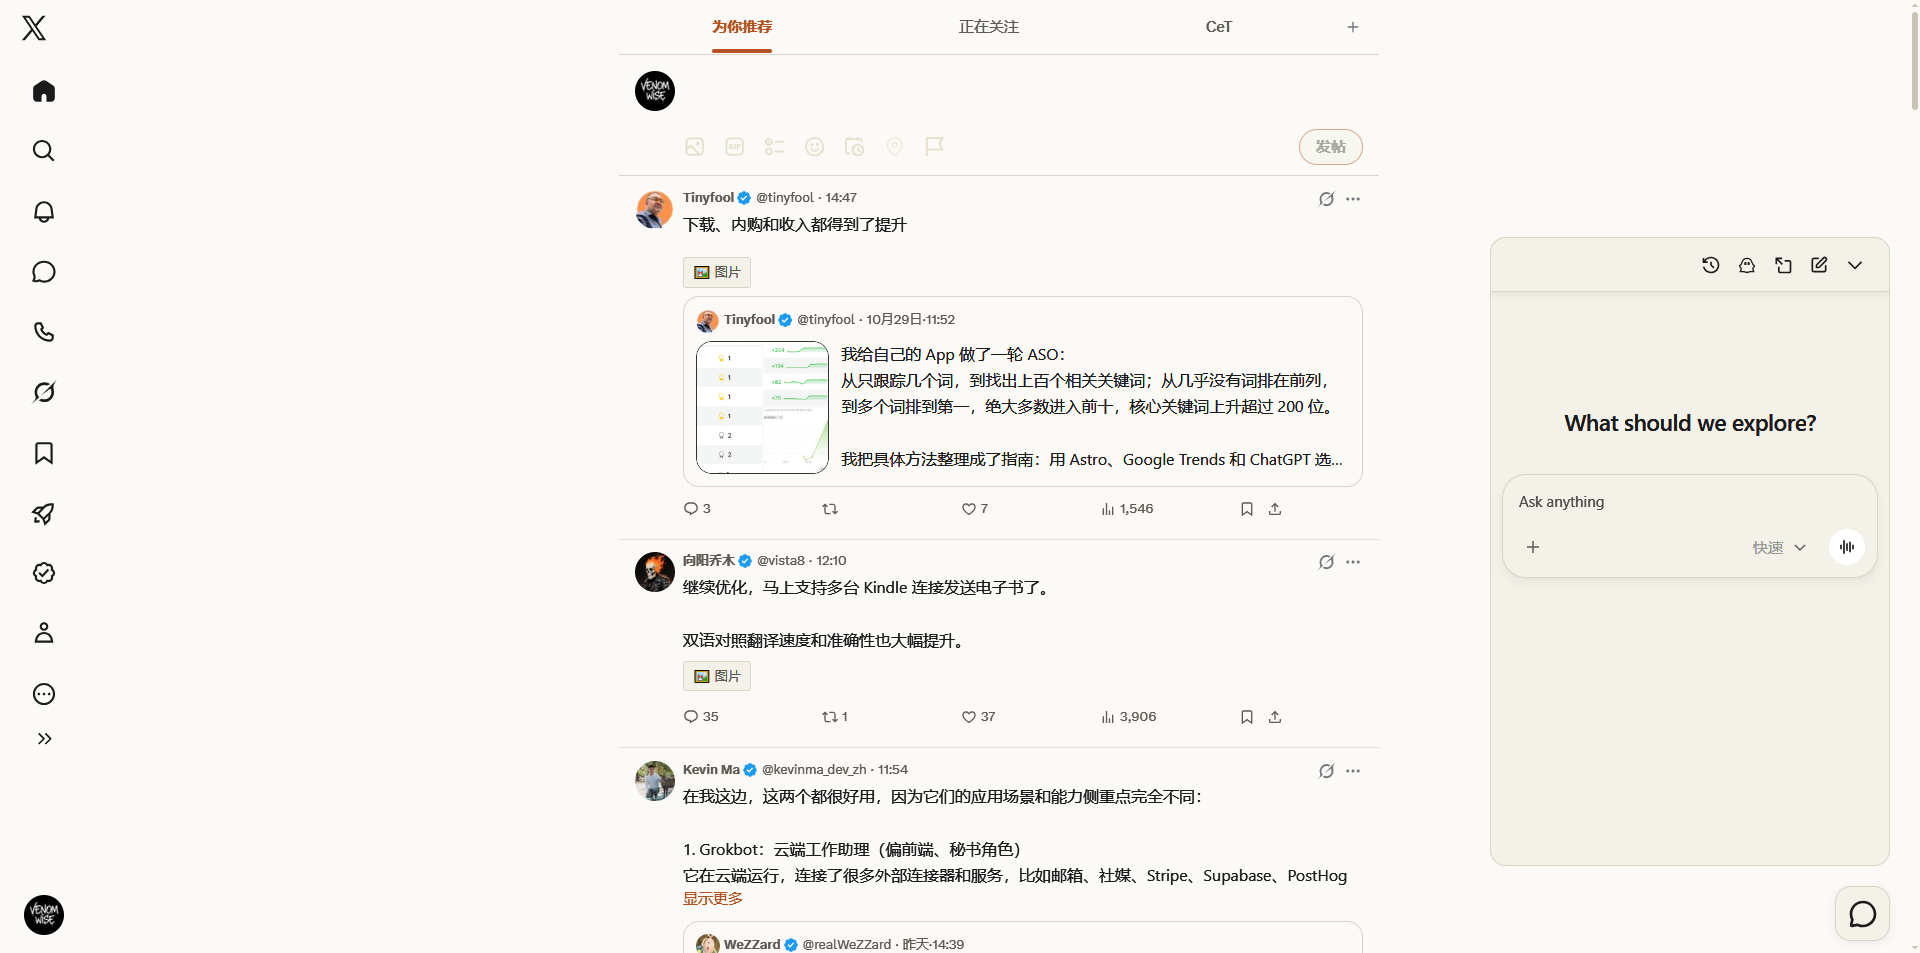
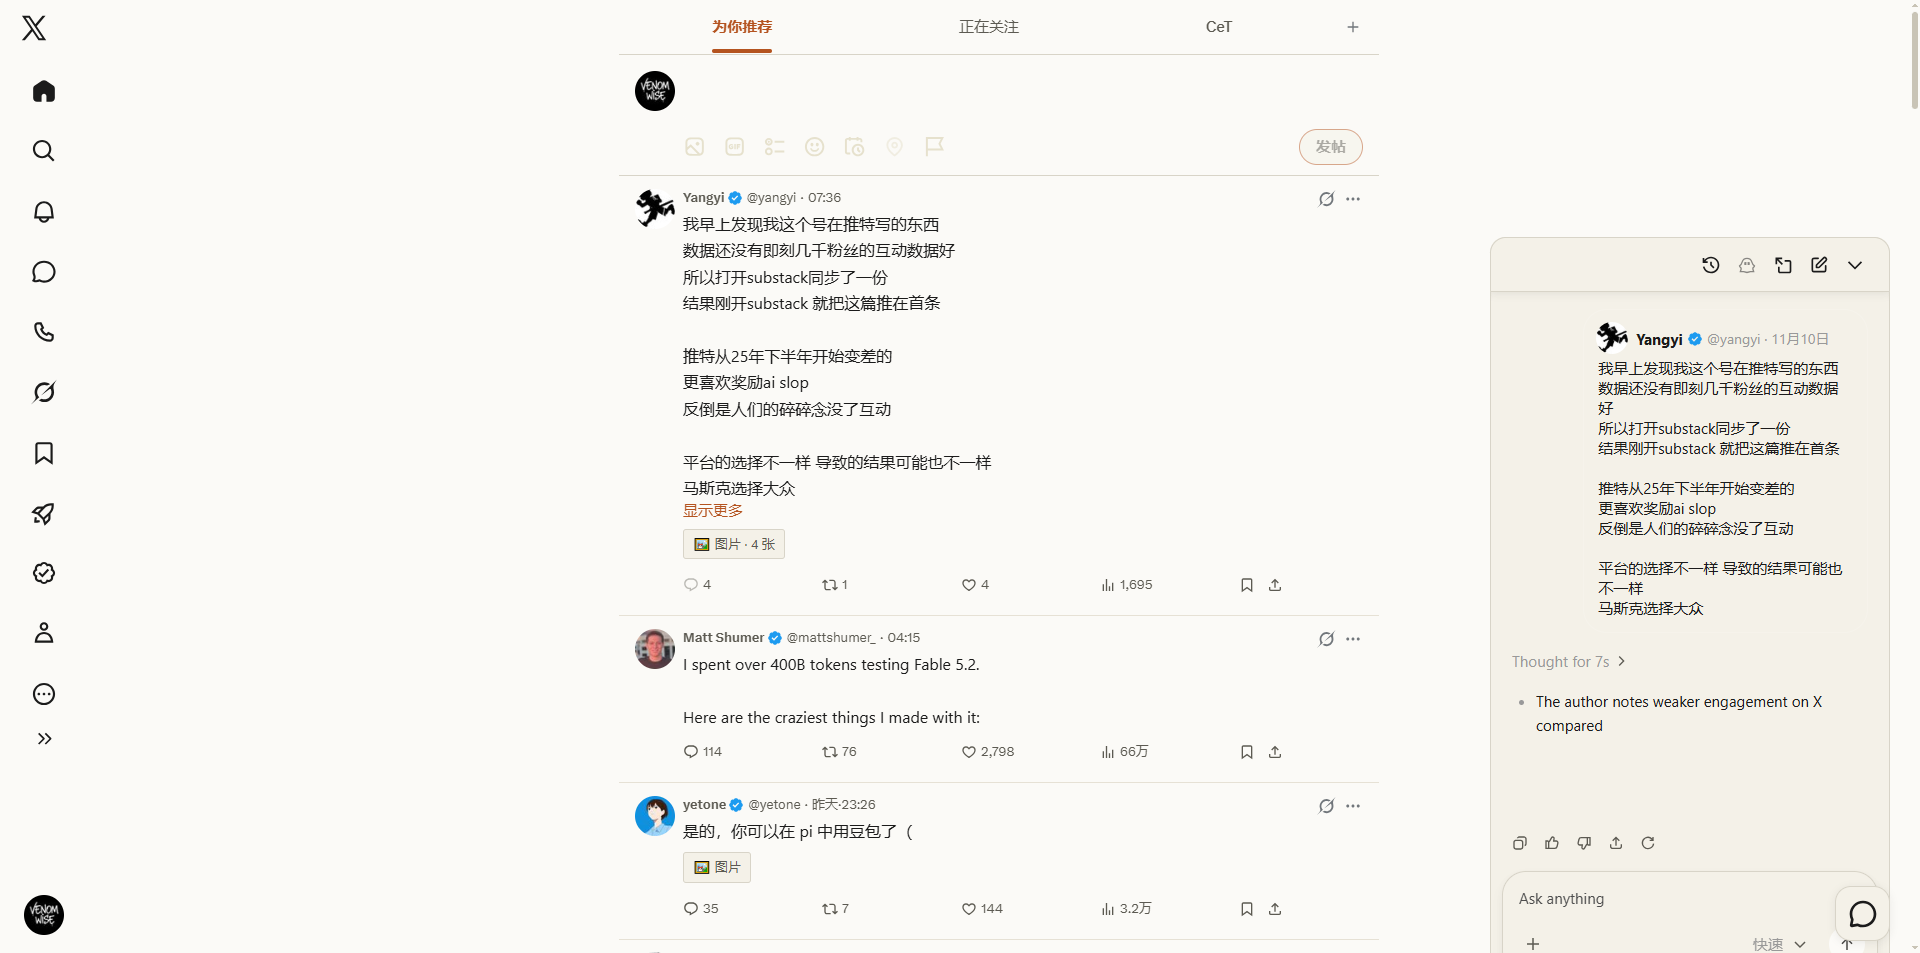
fix: paper-theme the Grok post-summary panel
Opening the drawer from a post's Grok icon left the panel dark: X replaces the
GrokDrawer root and two wrappers, and the old click gate only matched the
English aria-label. Observe the stable #layers drawer layer instead, keep the
connected layer across the drawer's transient absence so a scan no longer
disconnects its own observer, and flip the bare-div quoted author name to ink.

diff --git a/x-morning-paper.user.js b/x-morning-paper.user.js
@@ -2,7 +2,7 @@
 // @name         x-paper
 // @name:zh-CN   x-paper（X 纸面版）
 // @namespace    x-paper
-// @version      0.8.0
+// @version      0.8.1
 // @description  A quiet paper layout for X: icon rail, wide reading column, emoji media controls
 // @description:zh-CN  把 X 改成安静纸面版面：图标轨、宽阅读列、媒体折叠与悬停原图预览
 // @author       venom
@@ -2187,7 +2187,6 @@
   let grokObserver = null;
   let grokTimer = null;
   let grokRoot = null;
-  let grokClickBound = false;
   let commentsModal = null;
   let commentsAbort = null;
   let commentsReturnFocus = null;
@@ -2786,8 +2785,8 @@
 
   // 只处理带直接文字的元素：品牌色（党派色、比分绿勾）不在浅色阈值内，保持原样。
   // 传入 boundary 时跳过落在彩色（非纸面/非深底）气泡里的浅色文字。
-  function markPaperText(root, boundary) {
-    for (const node of root.querySelectorAll(SURFACE_TEXT_SELECTOR)) {
+  function markPaperText(root, boundary, selector = SURFACE_TEXT_SELECTOR) {
+    for (const node of root.querySelectorAll(selector)) {
       if (node.closest('[role="dialog"]')) continue;
       if (node.closest('img, [style*="background-image"], [data-testid="tweetPhoto"], [data-testid="previewInterstitial"]')) continue;
       let hasOwnText = false;
@@ -2866,7 +2865,8 @@
     const drawer = document.querySelector('[data-testid="GrokDrawer"]');
     if (!drawer) return;
     scanPaperSurfaces(drawer, 40);
-    markPaperText(drawer, drawer);
+    // 引用帖卡片的作者名是不带 dir 的纯 div，默认选择器只覆盖 div[dir]，会留下纸面上的白字。
+    markPaperText(drawer, drawer, 'span, p, div, h1, h2, h3, a');
     for (const icon of drawer.querySelectorAll('svg')) {
       const bg = nearestPaperBackground(icon, drawer);
       if (bg && !bg.paper && !bg.dark) continue;
@@ -2962,10 +2962,22 @@
     }, 200);
   }
 
+  // X 打开抽屉时会替换 GrokDrawer 根节点和它上面两层包装，挂在根上的观察器随之失效；
+  // #layers 的直接子层（Grok、聊天、BottomBar 三个抽屉层）保持不变，观察它才能接住根节点替换。
+  // 帖子头部的 Grok 入口没有 testid、aria-label 随界面语言变化，不能靠点击入口重挂。
+  // 开合瞬间抽屉会短暂缺席，此时沿用仍挂在文档上的层：否则移除变更触发的扫描会把观察器断掉，
+  // 抽屉回来后没人重挂，面板停在深色。
+  function grokLayer() {
+    const drawer = document.querySelector('[data-testid="GrokDrawer"]');
+    const layer = drawer && drawer.closest('#layers > div');
+    if (layer) return layer;
+    return grokRoot && grokRoot.isConnected ? grokRoot : null;
+  }
+
   function ensureGrokObserver() {
     if (!enabled) return;
-    const drawer = document.querySelector('[data-testid="GrokDrawer"]');
-    if (!drawer) {
+    const layer = grokLayer();
+    if (!layer) {
       if (grokObserver) {
         grokObserver.disconnect();
         grokObserver = null;
@@ -2973,32 +2985,12 @@
       }
       return;
     }
-    if (grokObserver && grokRoot === drawer) return;
+    if (grokObserver && grokRoot === layer) return;
     if (grokObserver) grokObserver.disconnect();
-    grokRoot = drawer;
+    grokRoot = layer;
     grokObserver = new MutationObserver(scheduleGrokScan);
-    grokObserver.observe(drawer, { childList: true, subtree: true });
+    grokObserver.observe(layer, { childList: true, subtree: true });
     scheduleGrokScan();
-  }
-
-  // X 打开/关闭 Grok 抽屉时会整块替换 GrokDrawer 根节点，原来挂在根上的观察器会失效。
-  // 在 Grok 入口点击后延迟重挂并扫描一次，之后由新根上的观察器接管流式内容。
-  function watchGrokDrawer() {
-    if (grokClickBound) return;
-    grokClickBound = true;
-    const sync = () => {
-      if (!enabled) return;
-      safe('grok', () => {
-        ensureGrokObserver();
-        scheduleGrokScan();
-      });
-    };
-    document.addEventListener('click', event => {
-      const target = event.target instanceof Element ? event.target : null;
-      if (!target || !target.closest('[data-testid="GrokDrawerHeader"], [aria-label="Grok"]')) return;
-      window.setTimeout(sync, 300);
-      window.setTimeout(sync, 1500);
-    }, true);
   }
 
   // 探索/搜索只做换肤不做版面：进入这两页起表面观察器，离开时停掉并清标记（DOM 复用时不留纸面样式）。
@@ -5055,7 +5047,6 @@
     watchComments();
     document.documentElement.dataset.xmpEnabled = '1';
     injectStyles();
-    watchGrokDrawer();
     if (typeof widthQuery.addEventListener === 'function') {
       widthQuery.addEventListener('change', handleWidthChange);
     }

diff --git a/AGENTS.md b/AGENTS.md
@@ -26,7 +26,7 @@
   无头像框线、引用帖媒体折叠、帖子时间显示具体时刻、通知/Toast 纸面化、左轨点击展开、
   图片悬浮原图预览、详情页/文章页表面纸面化、探索/搜索共用宽版面（右栏隐藏、左轨发帖入口
   收成 FAB）、通知页共用宽版面（右栏隐藏、FAB、缩略图折叠为「🖼 图片」）、评论按钮打开
-  页面内纸面弹窗、Grok 抽屉纸面化。不要按旧设计回退（尤其不要把左轨改回 hover/focus-within
+  页面内纸面弹窗、Grok 抽屉与帖子 Grok 总结面板纸面化。不要按旧设计回退（尤其不要把左轨改回 hover/focus-within
   自动展开）。
 
 ## 工作方式
@@ -58,7 +58,7 @@
    探索/搜索（宽版面）、通知（宽版面、缩略图折叠、SPA 进入与返回首页）；单图、网格、轮播、视频、
    引用帖、引用卡片、混合媒体；hover、focus、
    媒体折叠/展开；
-   Grok 抽屉打开/关闭/输入卡；评论弹窗打开/关闭、首页滚动位置、正文跳转仍进入状态页；
+   Grok 抽屉打开/关闭/输入卡、帖子 Grok 总结入口（头部无 testid 按钮）与收起重开；评论弹窗打开/关闭、首页滚动位置、正文跳转仍进入状态页；
    评论点赞/取消（空心→暖橙实心）、资料卡、弹窗内回复输入框、嵌套楼层连接线/圆角终点、
    非评论内容过滤。
 6. **边界**：999/1000px 是版面分界；1000px 应用轨道/680 列/媒体按钮，999px 只应用主题。
@@ -285,14 +285,20 @@
 ### Grok 抽屉
 
 - Grok 抽屉在 `body` 末尾、`primaryColumn` 外；根节点是 `[data-testid="GrokDrawer"]`，
-  打开/关闭时会**整块替换根节点**，挂在旧根上的 MutationObserver 会失效。入口按钮是
-  `[data-testid="GrokDrawerHeader"]`（也匹配 `[aria-label="Grok"]`），在 document 捕获阶段
-  监听点击，点击后 300ms/1500ms 重新挂观察器并扫描。
+  打开/关闭时会**替换根节点和它上面两层包装**，挂在旧根上的 MutationObserver 会失效。但
+  `#layers` 的直接子层（`drawer.closest('#layers > div')`，含 Grok/聊天/BottomBar 三个抽屉层）
+  保持不变，`ensureGrokObserver()` 观察这一层接住替换和流式内容。不要在 `body` 上挂全量观察器。
+- 帖子头部的 Grok 总结入口**没有 testid**、`aria-label` 随界面语言变化（中文「Grok 操作」），
+  不能靠点击入口的 `aria-label` 重挂观察器（旧 `watchGrokDrawer` 只认 `[aria-label="Grok"]`，
+  从帖子打开时漏挂，面板停在深色）。
+- 开合瞬间 `GrokDrawer` 会**短暂缺席**：移除变更触发的扫描若发现抽屉不在就断开观察器，抽屉回来
+  后没人重挂。`grokLayer()` 在抽屉缺席时沿用仍 `isConnected` 的旧层，避免观察器被自己的扫描断掉。
 - 抽屉的深色面板和输入卡按计算样式标记（复用 `scanPaperSurfaces`）；文字/图标只翻**最近底色**
   是纸面或深底的，用户消息的彩色气泡里的白字/白图标保持原样（`nearestPaperBackground`）。
   标记属性是 `data-xmp-paper-surface/chip/text/icon`，图标属性新增 `data-xmp-paper-icon`。
-- 抽屉内容流式更新由 `[data-testid="GrokDrawer"]` 子树的 MutationObserver 防抖重扫；关闭/重开
-  由点击后的延迟重挂兜底。不要在 `body` 上挂全量观察器。
+- 引用帖卡片的作者名是**不带 `dir` 的纯 `div`**，默认 `SURFACE_TEXT_SELECTOR` 的 `div[dir]`
+  漏标会在纸面上留下白字；`markGrokSurfaces()` 传入了包含裸 `div` 的选择器。改 `markPaperText`
+  时保持默认选择器不变，避免影响探索/搜索的无 boundary 调用。
 
 ### 评论弹窗
 

diff --git a/docs/selectors.md b/docs/selectors.md
@@ -302,13 +302,17 @@
 
 - 抽屉根是 `[data-testid="GrokDrawer"]`，在 `body` 末尾、`primaryColumn` 外；入口按钮是
   `[data-testid="GrokDrawerHeader"]`（`aria-label="Grok"`），聊天按钮是
-  `[data-testid="chat-drawer-main"]`。
-- X 打开/关闭抽屉时会**整块替换根节点**，挂在旧根上的观察器会失效。`watchGrokDrawer()` 在
-  document 捕获阶段监听入口点击，点击后 300ms/1500ms 重新 `ensureGrokObserver()` 并扫描；
-  抽屉根上的 MutationObserver 负责之后的流式内容（200ms 防抖）。
+  `[data-testid="chat-drawer-main"]`。帖子头部的 Grok 总结入口**没有 testid**，`aria-label`
+  随界面语言变化（中文「Grok 操作」），不能靠它做点击重挂。
+- X 打开/关闭抽屉时会**替换根节点和它上面两层包装**，挂在旧根上的观察器会失效；但 `#layers`
+  的直接子层（`drawer.closest('#layers > div')`，含 Grok、聊天、BottomBar 三个抽屉层）保持不变。
+  `ensureGrokObserver()` 观察这一层（`childList + subtree`，200ms 防抖）接住根节点替换和流式内容。
+  开合瞬间抽屉会短暂缺席，`grokLayer()` 此时沿用仍 `isConnected` 的旧层，否则移除变更触发的扫描
+  会把观察器断掉、抽屉回来后停在深色。
 - `markGrokSurfaces()` 复用 `scanPaperSurfaces()` 标记深色面板/输入卡，再用
   `nearestPaperBackground()` 只翻转最近底色为纸面或深底的文字/图标；用户消息的彩色气泡
-  （例如蓝色气泡）里的白字和白图标保持原样。图标标记为 `data-xmp-paper-icon`。
+  （例如蓝色气泡）里的白字和白图标保持原样。图标标记为 `data-xmp-paper-icon`。文字选择器额外
+  包含不带 `dir` 的纯 `div`（引用帖卡片的作者名是裸 `div`，默认 `div[dir]` 会漏标留下白字）。
 - Grok 抽屉的深色面板是 `[data-testid="GrokDrawer"]` 的第一个 div（无边框，标
   `data-xmp-paper-chip`）；输入卡是 376×104、`border-radius:24px`、1px 边框的 div（标
   `data-xmp-paper-surface`）；编辑器是 `div[role="textbox"][aria-label="Ask anything"]`。

diff --git a/README.md b/README.md
@@ -8,6 +8,9 @@
 
 ## 最近更新
 
+- **0.8.1**：从帖子右上角 Grok 图标打开的总结面板也完整纸面化。改观察 `#layers` 下稳定的抽屉层
+  （X 会替换 `GrokDrawer` 根节点及两层包装），不再依赖本地化的入口 `aria-label`；开合瞬间抽屉短暂
+  缺席时沿用已挂的观察层，避免面板停在深色；引用帖卡片里不带 `dir` 的作者名（纯 `div`）翻成墨色。
 - **0.8.0**：通知页改用与首页一致的宽版面（88px 轨道、680/720/760px 居中正文列、隐藏右栏、
   发帖入口收成 FAB）；行内缩略图折叠为「🖼 图片」，推广内容隐藏，时间显示具体时刻；
   SPA 切路由后按新的 `primaryColumn` 重新体检，内层时间线不再停在 600px。
@@ -55,8 +58,8 @@
 - **帖子/用户主页在新标签页打开**：默认启用，无需设置。点首页/个人主页/探索/搜索里的主帖
   正文、时间戳、tweet 头部头像/用户名，通知行内的头像，或悬停资料卡里的头像/用户名，都会在
   新标签打开，首页不卸载；引用帖、正文内的 @ 链接、媒体和操作按钮仍按 X 原行为处理。
-- **Grok**：右下角的 Grok 抽屉换成纸面面板、纸面输入卡和墨色图标；用户消息的彩色气泡
-  保留原色，不与主题冲突。
+- **Grok**：右下角的 Grok 抽屉和从帖子右上角 Grok 图标打开的总结面板都换成纸面面板、纸面输入卡
+  和墨色图标；引用帖卡片的作者名翻成墨色，用户消息的彩色气泡保留原色，不与主题冲突。
 - **左轨**：悬停不再自动展开；点击「更多」下方的双箭头展开为 240px，再次点击或按 `Esc` 收起。
   底部账号入口只保留当前账号头像，账号菜单完整弹出。
 - **媒体折叠**：首页、个人主页和通知页顶层帖子的图片/视频默认折叠为 `🖼`/`🎬` 按钮，点击就地展开；
